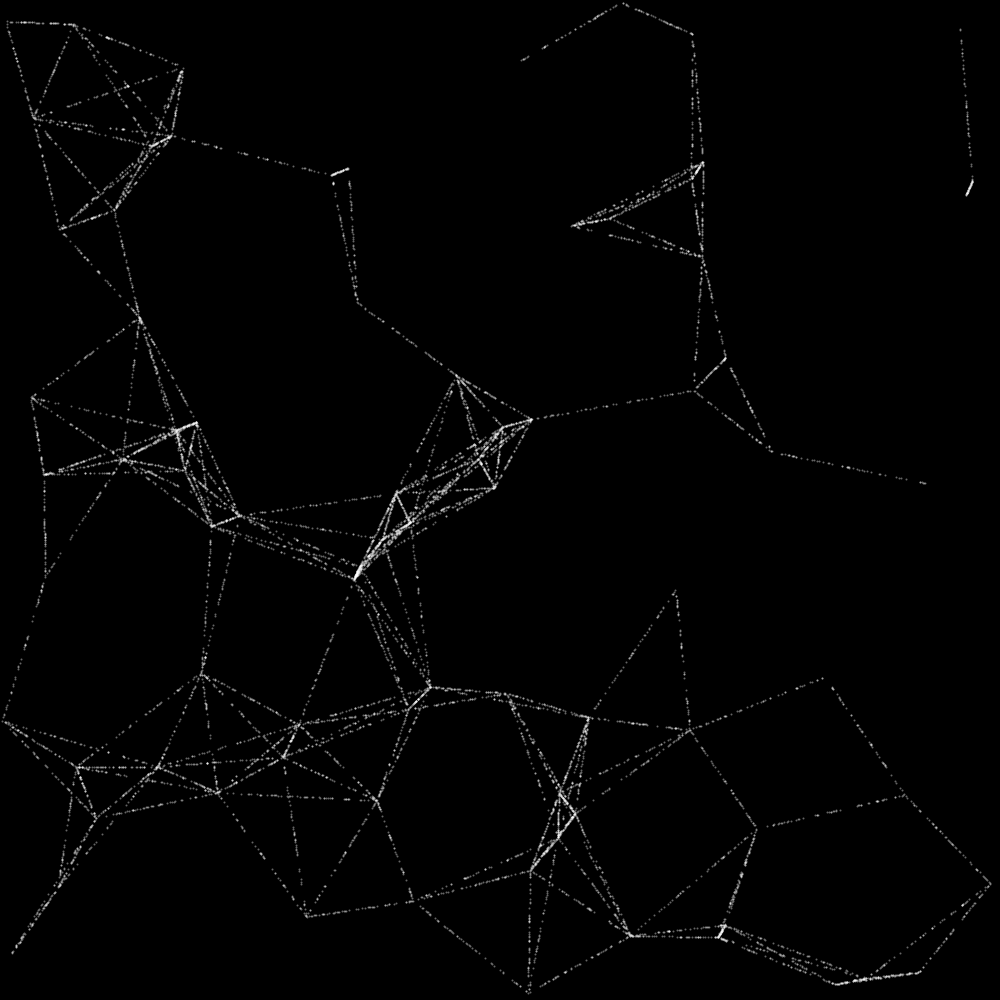
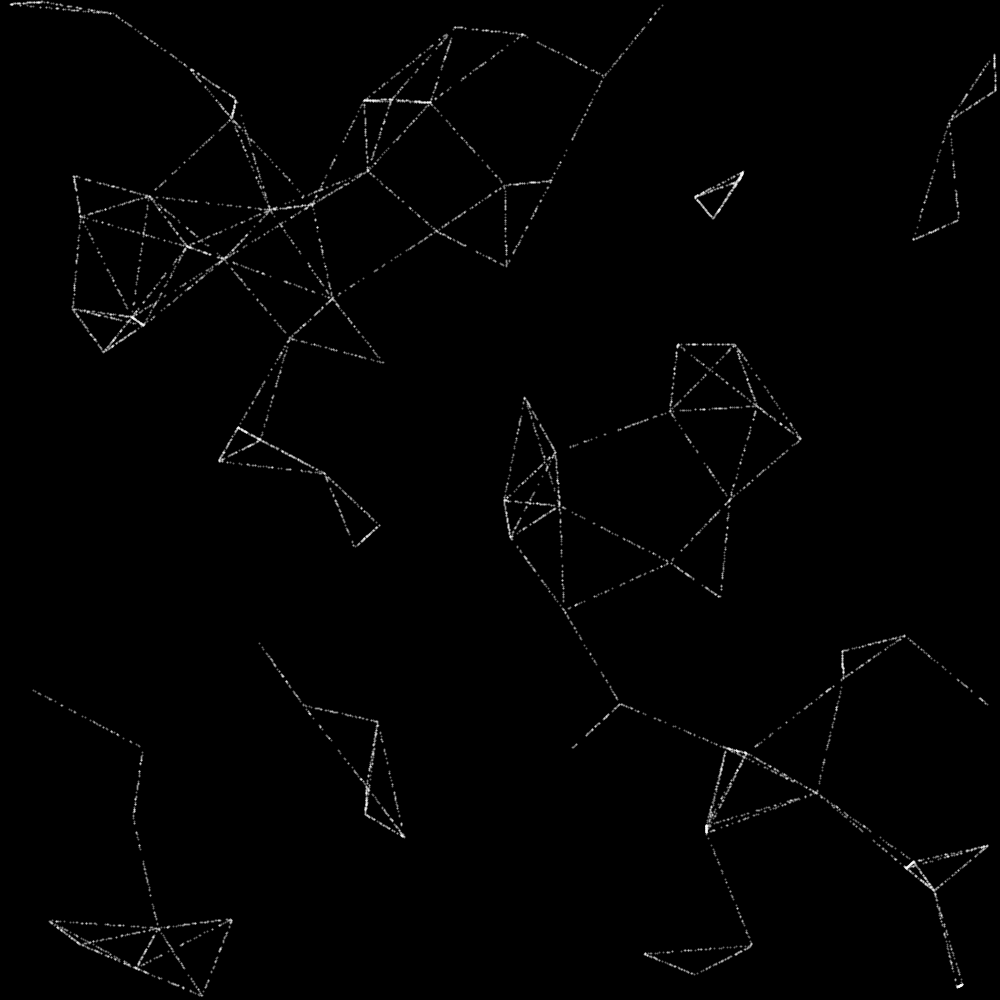
Experimenting with different initial velocities

diff --git a/README.md b/README.md
@@ -9,6 +9,7 @@ Creative Coding Projects written in Processing. Mostly in progress.
 <a href = "Nearest_Neighbour_Study/Nearest_Neighbour_Study_01_01"><img src="Nearest_Neighbour_Study/Nearest_Neighbour_Study_01_01.png" width="100" alt="Nearest_Neighbour_Study/Nearest_Neighbour_Study_01_01.png"></a>
 <a href = "Nearest_Neighbour_Study/Nearest_Neighbour_Study_02"><img src="Nearest_Neighbour_Study/Nearest_Neighbour_Study_02.png" width="100" alt="Nearest_Neighbour_Study/Nearest_Neighbour_Study_02.png"></a>
 <a href = "Nearest_Neighbour_Study/Nearest_Neighbour_Study_02_01"><img src="Nearest_Neighbour_Study/Nearest_Neighbour_Study_02_01.png" width="100" alt="Nearest_Neighbour_Study/Nearest_Neighbour_Study_02_01.png"></a>
+<a href = "Nearest_Neighbour_Study/Nearest_Neighbour_Study_02_02"><img src="Nearest_Neighbour_Study/Nearest_Neighbour_Study_02_02.png" width="100" alt="Nearest_Neighbour_Study/Nearest_Neighbour_Study_02_02.png"></a>
 ## [Nuclear Reactor Sim](Nuclear%20Reactor%20Sim)
 <a href = "Nuclear Reactor Sim/Nuclear_Reactor_Sim_01"><img src="Nuclear Reactor Sim/Nuclear_Reactor_Sim_01.png" width="100" alt="Nuclear Reactor Sim/Nuclear_Reactor_Sim_01.png"></a>
 ## [Paint Can Swing Emulator](Paint%20Can%20Swing%20Emulator)
